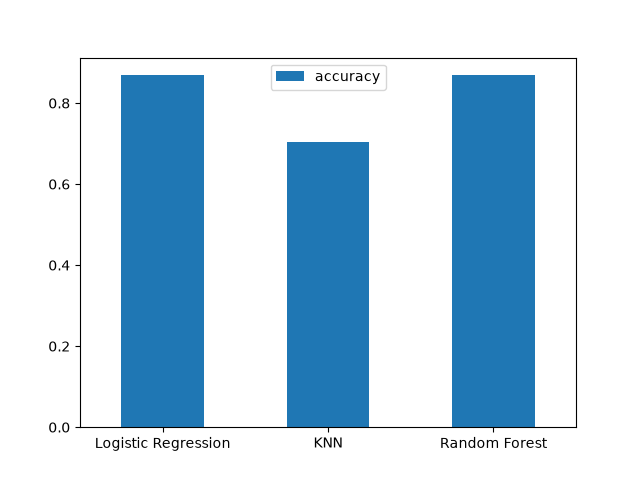
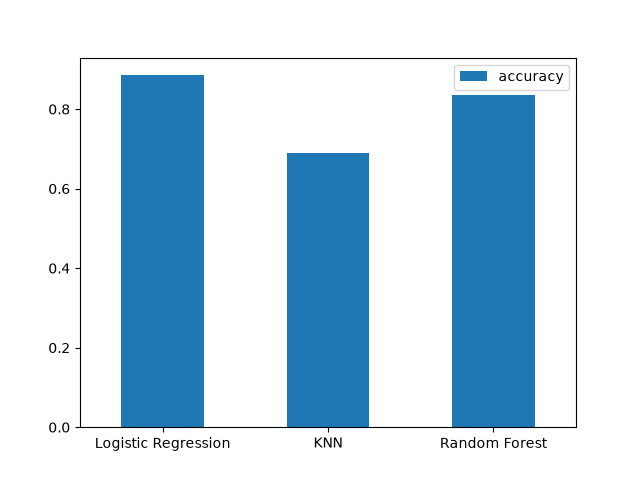
Tunned the KNN model and added the report in the Readme.md file for KNN Hyperparmaeter tunning

diff --git a/Readme.md b/Readme.md
@@ -91,7 +91,13 @@ The ML Engineer must also have the knowledge about the data below are some of th
 
 > Modelling means preapring our model to get deep dive into the model to build the model based on the [Provided Scikit learn estimator](https://scikit-learn.org/stable/machine_learning_map.html) to preare the best model.
 
-I choose the [Logistic Regression](https://scikit-learn.org/stable/modules/generated/sklearn.linear_model.LogisticRegression.html) estimator for the [Heart Disease Predictor](https://github.com/MohmmedFurqaan/ml-projects.git) based on the below graph as the [Logistic Regression](https://scikit-learn.org/stable/modules/generated/sklearn.linear_model.LogisticRegression.html) achieved the acuracy around 86% for the baseline model you can see it below : 
+### KNeighborsClassifier
+
+> After tunning the parameter's of the KNN (for parameter's negihbours), which ranges from 1 to 21 i found that it achived the `max accuracy score to the : 75.41%` which is not satisified see the below graph :
+![Hypertunning of KNN Classifier](images/modelling/002_knn_model_tunning.png)
+
+
+I choose the [Logistic Regression](https://scikit-learn.org/stable/modules/generated/sklearn.linear_model.LogisticRegression.html) estimator for the [Heart Disease Predictor](https://github.com/MohmmedFurqaan/ml-projects.git) based on the below graph as the [Logistic Regression](https://scikit-learn.org/stable/modules/generated/sklearn.linear_model.LogisticRegression.html) achieved the acuracy around 88% for the baseline model you can see it below : 
 ![Sklearn Model Comparision](images/modelling/001_different_modell_score.png)
 
 ## Important Disclaimer
